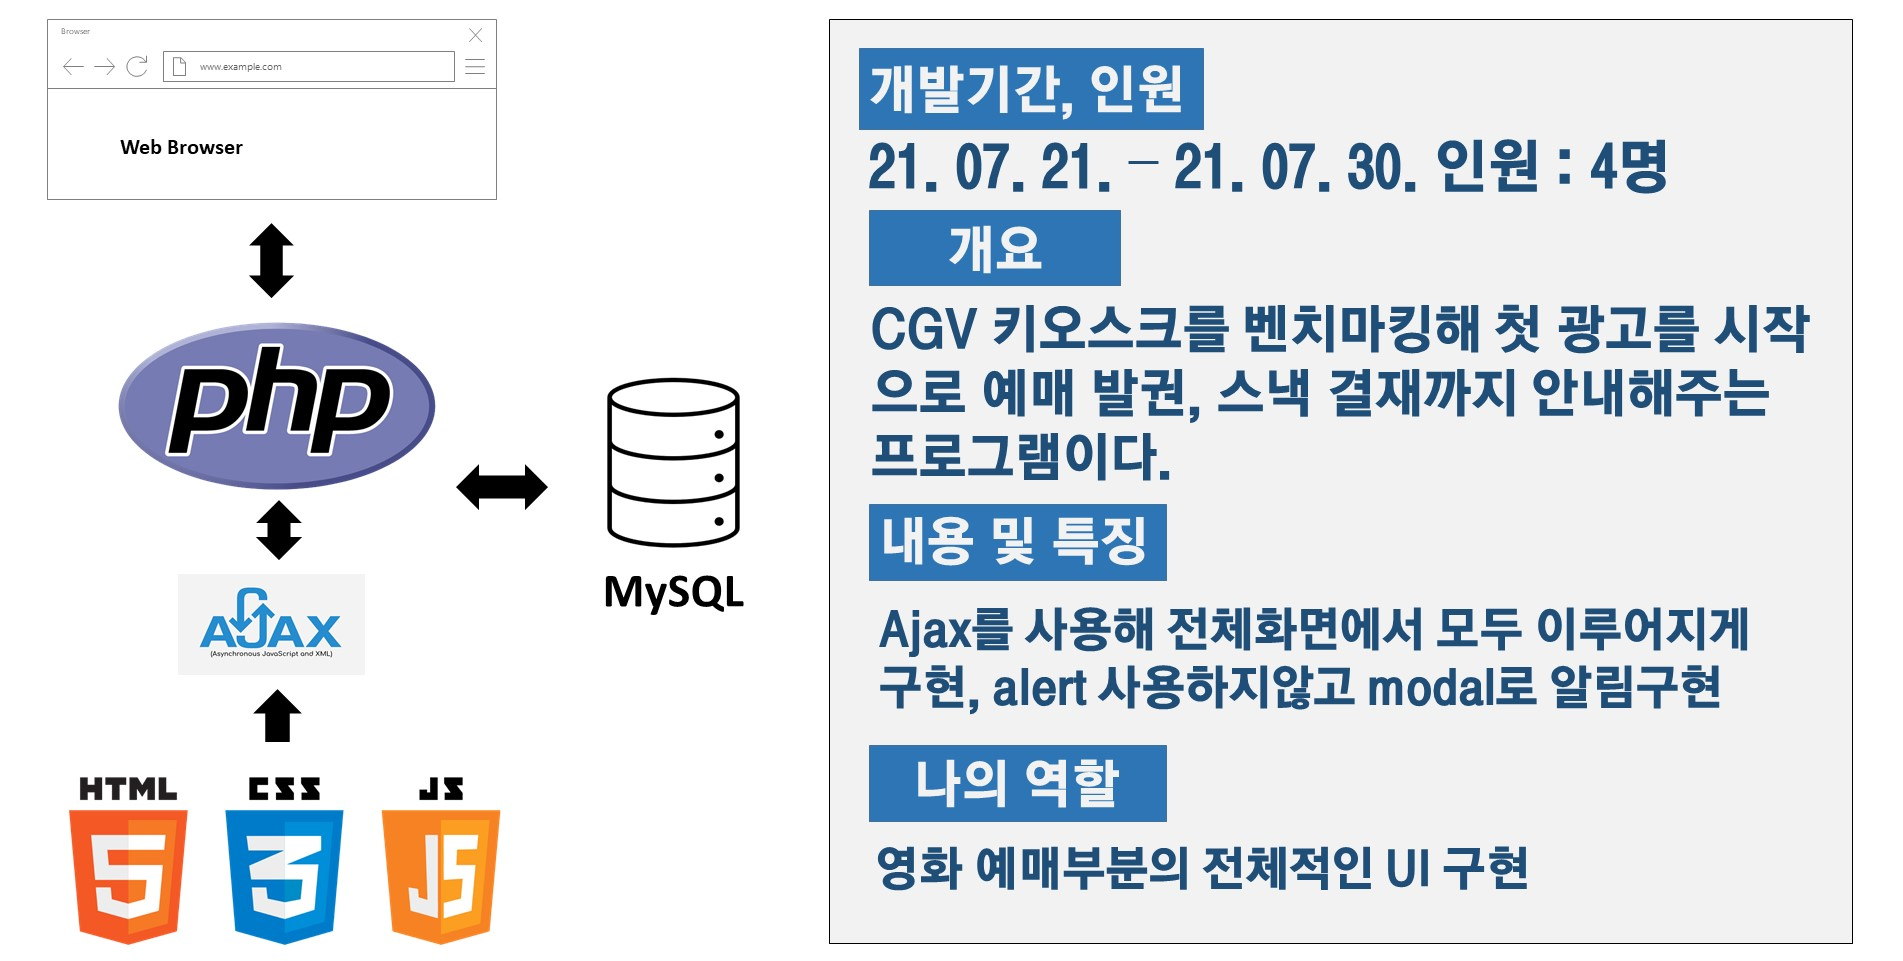
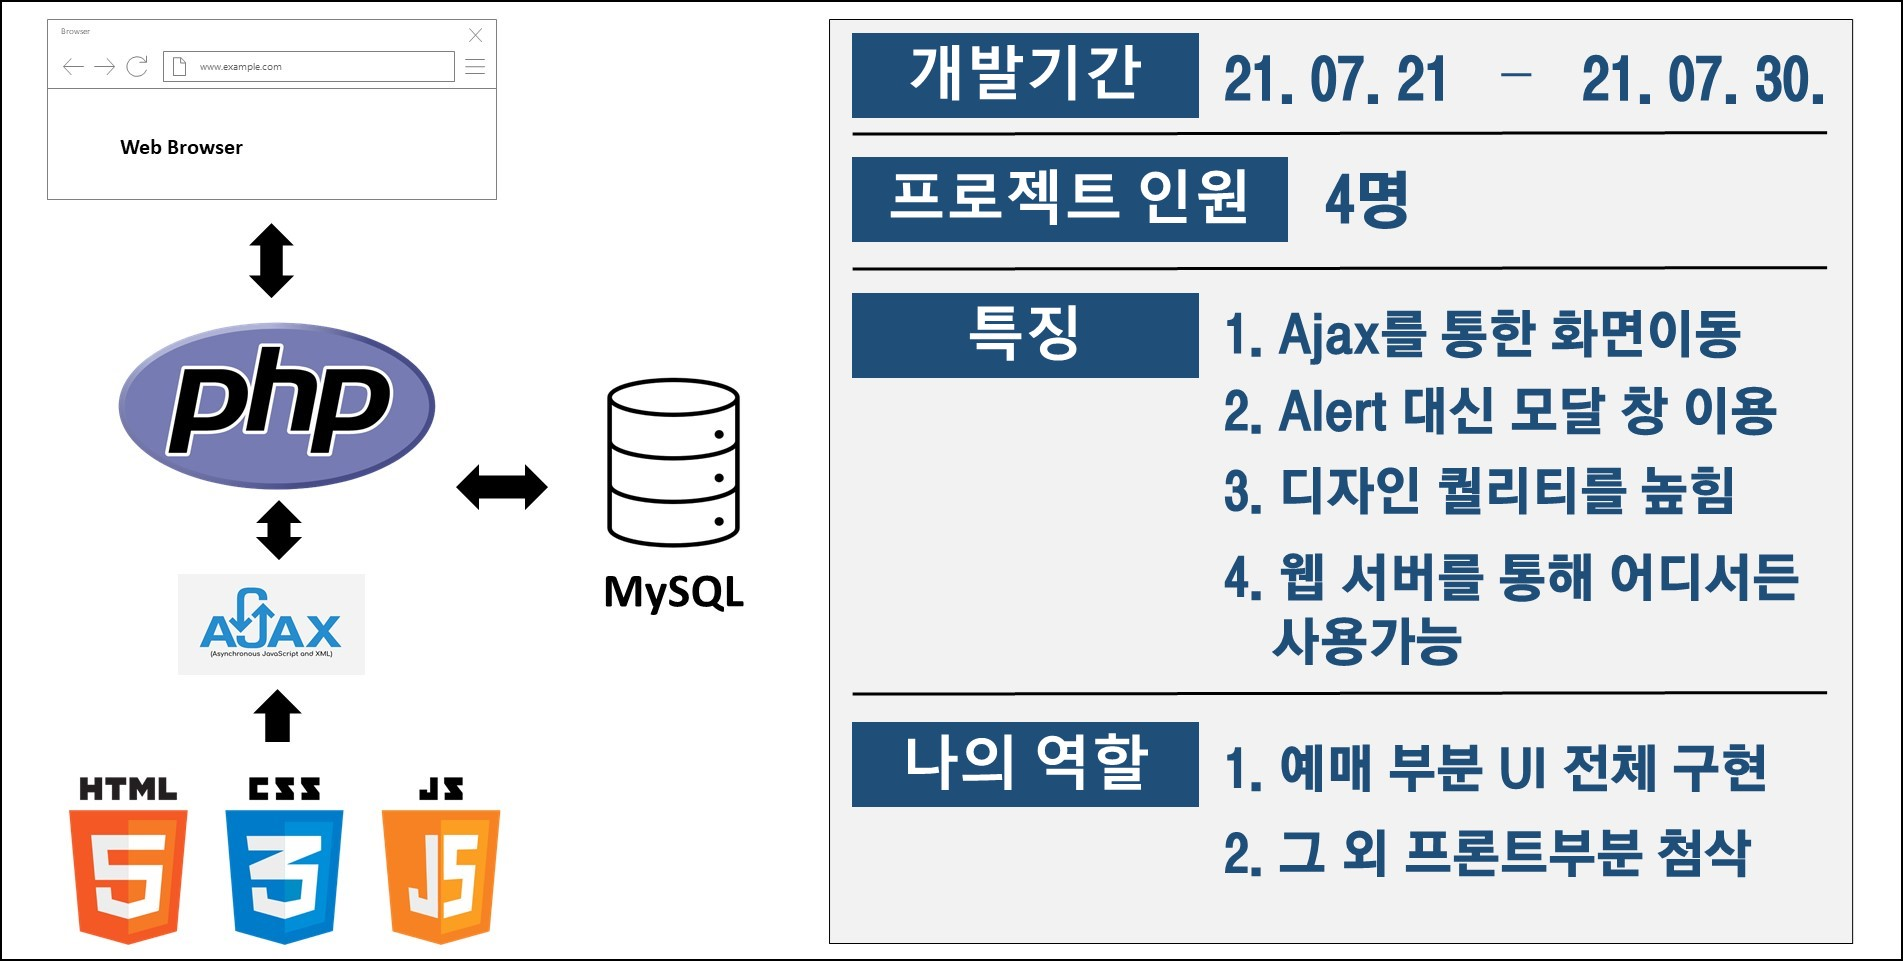
포트폴리오 이미지 변경 // 프로젝트 부분 수정 보안

Changed region(s): [[0.4341, 0.0312, 0.9611, 0.9365], [0.0, 0.0, 1.0, 1.0]]

diff --git a/index.html b/index.html
@@ -104,20 +104,24 @@
      
           <section class="text-gray-600 body-font overflow-hidden">
           
-            <div class="container px-5 py-24 mx-auto">
-              <h1 class="text-7xl font-medium title-font text-gray-900 tracking-widest flex flex-col text-center w-full py-12"><b>[ ProJect ]</b></h1>
+            <div class="container px-5 py-36 mx-auto">
+              <h1 class="text-2xl font-medium title-font text-gray-900 tracking-widest flex flex-col text-center w-full "><b>[ Project1 ]</b></h1>
+              <h1 class="text-7xl font-medium title-font text-gray-900 tracking-widest flex flex-col text-center w-full py-4"><b>Movie Kiosk</b></h1>
+              <b><p class="leading-relaxed text-xl lg:w-4/5 mx-auto flex flex-wrap text-center py-2">어디라도 영화관 키오스크처럼 예매할 수 있는 프로그램이 있으면 좋겠다!! 라는 마음으로 시작된 프로젝트로<br> 
+              (1) 광고 상영  (2)예매 및 발권 버튼을 통해 원하는 기능을 수행  (3) 결제 전 스낵바의 이용  (4) 총 가격 결제의 순서로 작동합니다.<br>
+              </p></b>
+         
               <div class="lg:w-4/5 mx-auto flex flex-wrap">
                 <img alt="ecommerce" class="w-2/4 h-auto object-cover object-center rounded px-1" src="smoda.kr_A_team_Project_.png">
                 <img alt="ecommerce" class="w-2/4 h-auto object-cover object-center rounded px-1" src="Minfo.jpg">
                 <div class="lg:w-4/4 w-full lg:pl-10 lg:py-6 mt-6 lg:mt-0 text-center content-center" >
                   <br>
-                  <h2 class="text-sm title-font text-gray-500 tracking-widest text-xl">Project1</h2>
                   
-                  <b><h1 class="text-gray-900 text-6xl title-font font-medium mb-1">Movie Kiosk</h1></b>
          
-                  <b><p class="leading-relaxed text-xl">CGV의 예매 키오스크를 벤치마킹하여 더블클릭을 통해 전체화면으로 변경 뒤 Ajax를 사용하여 비동기 화면 이동을 통해 전체화면이 깨지지 않는 상태에서
-                    이루어질 수 있도록 구성하였고, 저는 영화 예매부분의 프론트엔드 부분을 전담하여 받아 진행했습니다. 
-                  이 프로젝트를 진행하면서, Jquery, JavaScript를 보다 능숙하게 활용할 수 있었습니다.</p></b>
+                  <b><p class="leading-relaxed text-xl">배운점: Ajax 이용 및 Javascript의 다양한 기능 이해, 전체적인 디자인 및 ui의 퀄리티를 높히는 법에 대해 배웠습니다.<br><BR>
+                  느낀점: 프론트를 전적으로 맡아 한 처음 프로젝트였기에 어려웠지만 재밌었고, 보안할 점들이 많아 <BR>추후에 해당 부분들을 꼭 수정 보안하고 싶다고 느꼈습니다.<BR>
+                  <BR>
+                  보안점: (1)프로그램 마지막 부분에 데이터가 가끔 안넘어가는 오류 해결 <BR>(2)메인 화면의 광고의 크기<BR>(3)발권과 예매를 선택하는 페이지의 CSS </p></b>
                   <div class="flex mt-6 items-center pb-5 border-b-2 border-gray-100 mb-5">
                   </div>
                   <div class="flex">
@@ -131,17 +135,24 @@
           </section>
 
           <section class="text-gray-600 body-font overflow-hidden">
-            <div class="container px-5 py-12 mx-auto">
+            <div class="container px-5 py-2 mx-auto">
+              <h1 class="text-2xl font-medium title-font text-gray-900 tracking-widest flex flex-col text-center w-full "><b>[ Project2 ]</b></h1>
+              <h1 class="text-7xl font-medium title-font text-gray-900 tracking-widest flex flex-col text-center w-full py-4"><b>What Should i eat?</b></h1>
+              <b><p class="leading-relaxed text-xl lg:w-4/5 mx-auto flex flex-wrap text-center py-2">항상 무엇을 먹을지 고민하는 현대인들에게, 재밌게 추천해주는 프로그램을 만들자!라는 프로젝트로!<br> 
+              (1)여러 종류들의 각각의 메뉴들을 무작위로 돌리는 룰렛기능 (2) 선호도에 따른 종류 추가/삭제 기능  (3) 로그인을 통한 게시판기능  (4) 룰렛결과를 네이버지도와 연동해 근처 음식점 찾기의 순서로 작동합니다!<br>
+             
+              </p></b>
+
               <div class="lg:w-4/5 mx-auto flex flex-wrap">
                 <img alt="ecommerce" class="w-2/4 h-auto object-cover object-center rounded px-1" src="smoda.kr_WhatWillWeHave_index.php.png">
                 <img alt="ecommerce" class="w-2/4 h-auto object-cover object-center rounded px-1" src="info.jpg">
                 <div class="lg:w-4/4 w-full lg:pl-10 lg:py-6 mt-6 lg:mt-0 text-center content-center" >
-                  <h2 class="text-sm title-font text-gray-500 tracking-widest text-xl">Project2</h2>
-                  <h1 class="text-gray-900 text-6xl title-font font-medium mb-1">What shoud i eat today?</h1>
-         
-                  <b><p class="leading-relaxed text-xl">오늘 뭐먹지라는 웹사이트는, 현대 사회에서 무엇을 먹을지 고민하는 사람들에게 무작위의 음식 중 룰렛을 돌려 선택할 수 있고 해당 
-                    음식을 네이버지도와 연결하여 내 근처 어디에서 먹을 수 있는지 알아보는 프로그램입니다. 저는 이 프로그램에서 로그인 및 회원가입의 JavaScript를 사용한 프론트엔드, PHP를 통해
-                  MariaDB와 연결해 회원가입 정보를 저장, <br>게시판 글을 데이터베이스에 저장하는 백엔드 프로그래밍을 하였습니다.</p></b>
+
+                  <b><p class="leading-relaxed text-xl">배운점: 추출한 데이터를 넘기는 방법, 룰렛 오픈소스 활용, 로그인 및 회원가입 게시판의 DB구현 및 연동에 대해 배웠습니다.<BR><BR>
+                    느낀점: DB를 만들고 각각의 테이블과 값들을 연결시키는 과정에서 재미를 느꼈고<BR> 나중엔 보다 더 심도있고 어려운 백엔드를 경험해보고 싶다고 느꼈습니다.<BR><BR>
+                  보안점: (1)각 음식의 데이터들을 DB와 연동하여 사용자 개개인마다 다른 데이터를 제공할 수 있으면 좋을 것 같음<BR>
+                  (2) 기능이 적어 보다 더 많은 서비스를 제공할 필요성을 느낌<BR>
+                  
                   <div class="flex mt-6 items-center pb-5 border-b-2 border-gray-100 mb-5">
                   </div>
                   <div class="flex">
